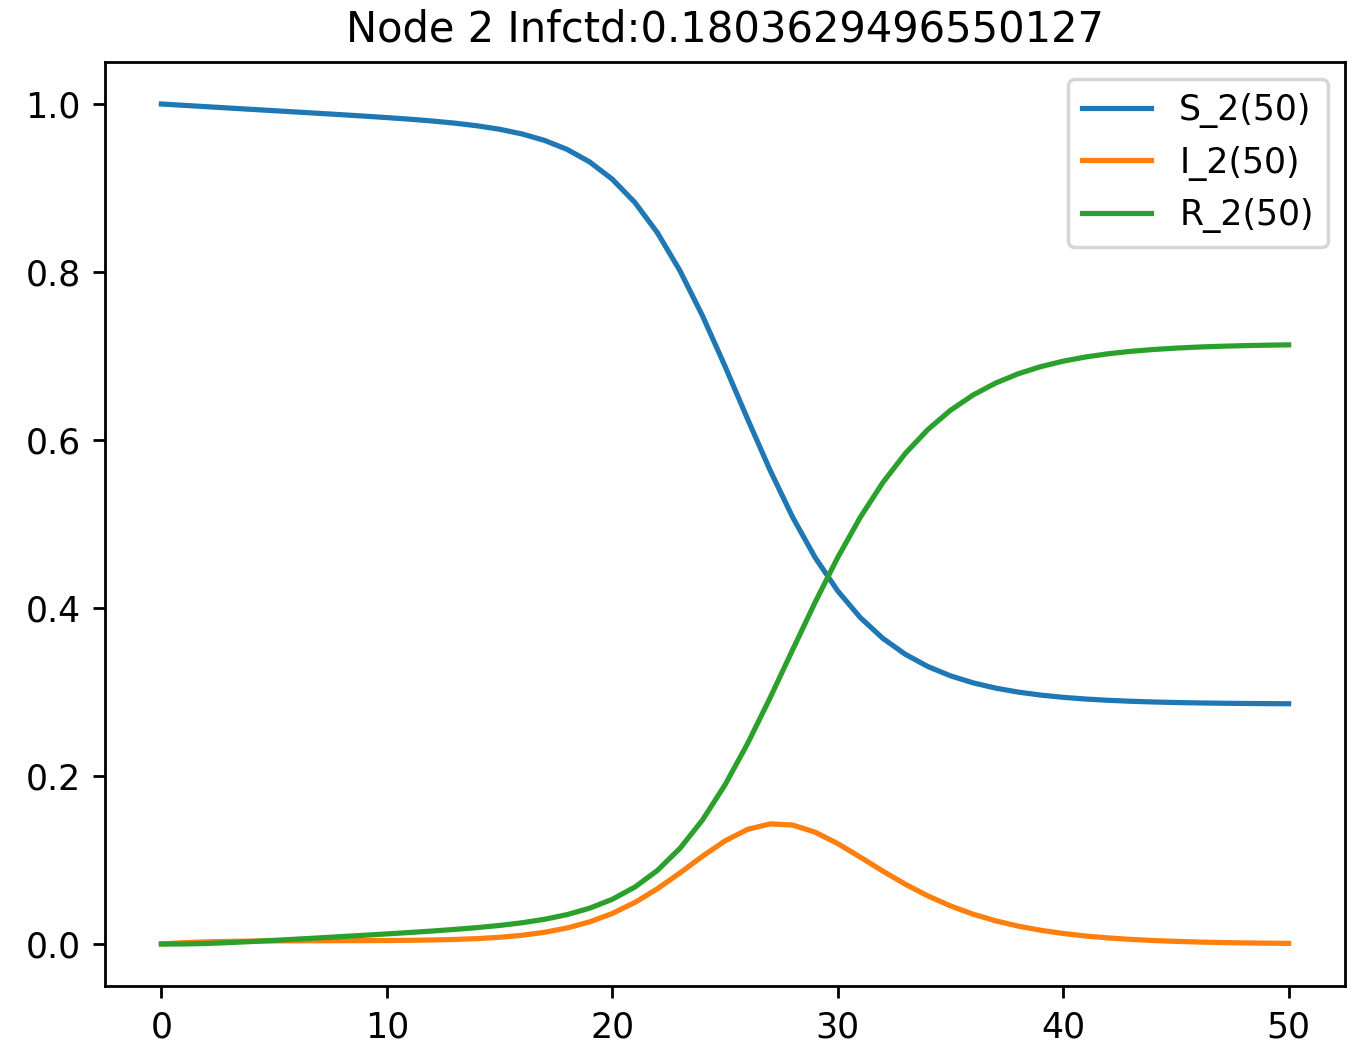
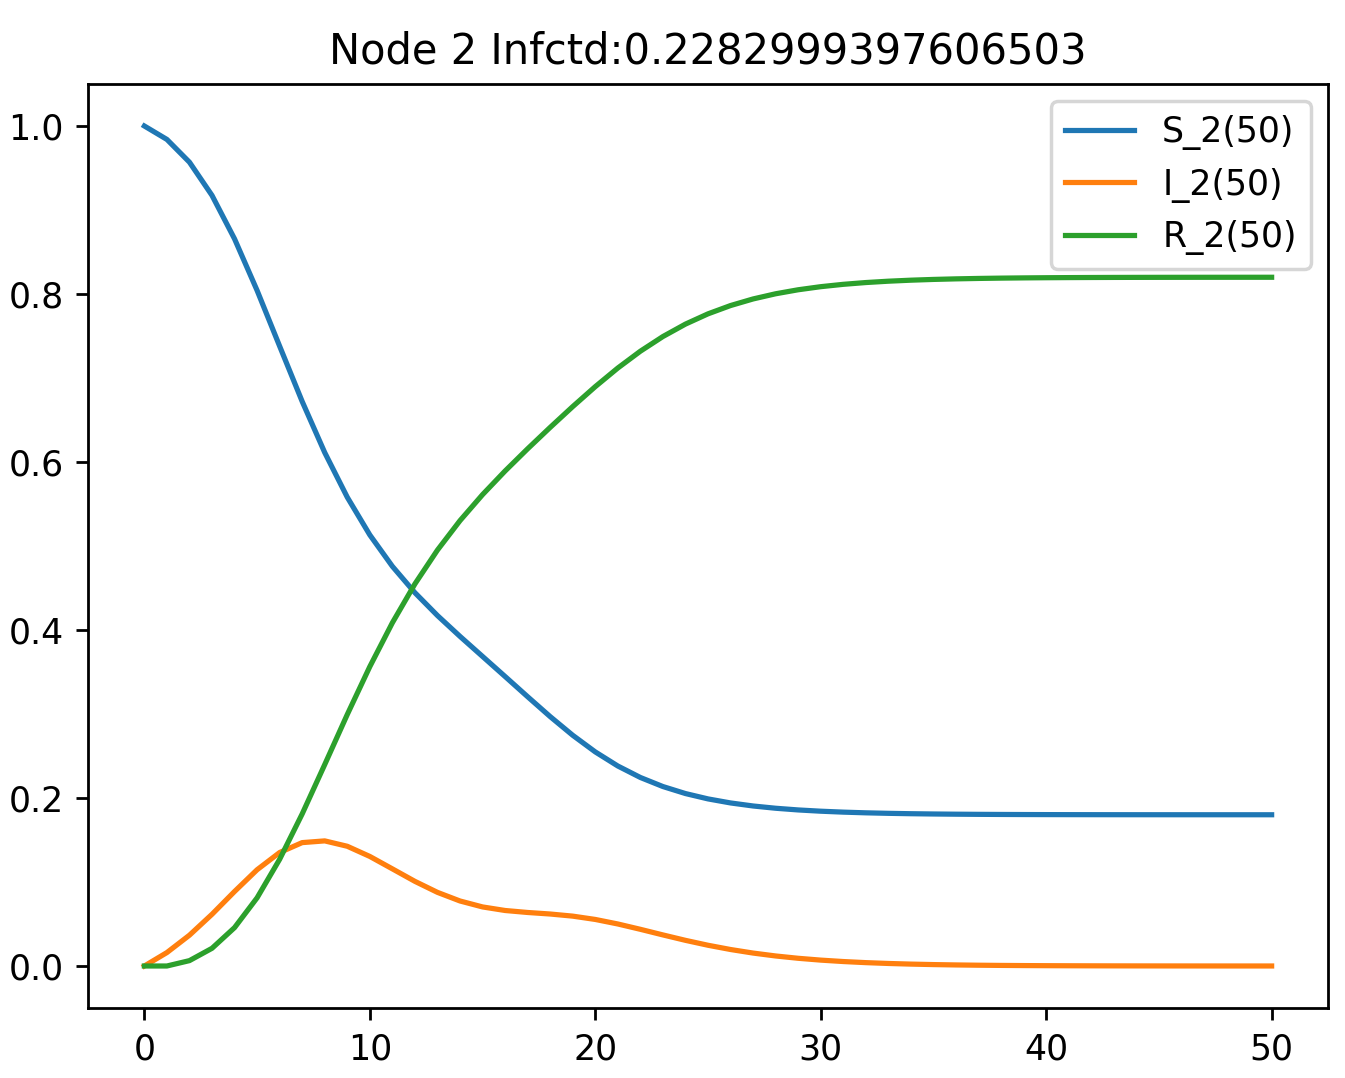
added in pictures

diff --git a/Code/Homework/hw05.py b/Code/Homework/hw05.py
@@ -191,12 +191,24 @@ Q5_graph_adj = np.array([[0.8, 0.0, 0.0, 0.05, 0.15],
                          [0.3, 0.2, 0.5, 0.0, 0.0],
                          [0.0, 0.0, 0.05, 0.95, 0.0],
                          [0.0, 0.0, 0.0, 0.2, 0.8]])
-q5_timesteps = 20
-Q5_SS, Q5_II, Q5_RR = SIR(beta, gamma, Q5_graph_adj, Q5_og_infection, q5_timesteps, show_plot=False)
 
+q5_timesteps = 0
+
+while True:
+    Q5_SS, Q5_II, Q5_RR = SIR(beta, gamma, Q5_graph_adj, Q5_og_infection, q5_timesteps+1, node = 2, show_plot=False)
+    if q5_timesteps % 25 == 0:
+        print(f"Step:\t{q5_timesteps}")
+        print(f"Node 2 infection %:{Q5_II[:, q5_timesteps][1]}")
+        print(F"The rest of the network {Q5_II[:, q5_timesteps]}")
+        showPlot(Q5_SS, Q5_II, Q5_RR, 2, q5_timesteps)
+    if q5_timesteps > 50:
+        break
+    q5_timesteps += 1
+
+print(f"Last ten time steps of {q5_timesteps-1}")
 print("\tS_i(t):\t")
-print(printPrettyMatrix("", Q5_SS))
+print(printPrettyMatrix("",Q5_SS[:, q5_timesteps-10:q5_timesteps]))
 print("\tI_i(t):\t")
-print(printPrettyMatrix("",  Q5_II))
+print(printPrettyMatrix("",  Q5_II[:, q5_timesteps-10:q5_timesteps]))
 print("\tR_i(t):\t")
-print(printPrettyMatrix("", Q5_RR))
+print(printPrettyMatrix("", Q5_RR[:, q5_timesteps-10:q5_timesteps]))
